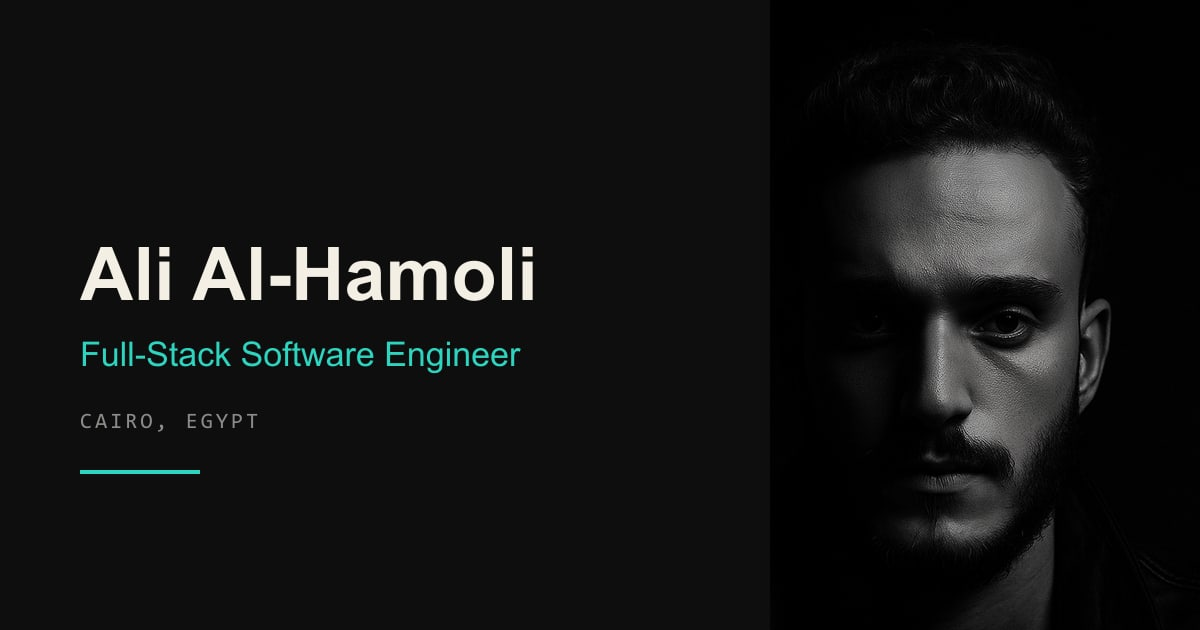
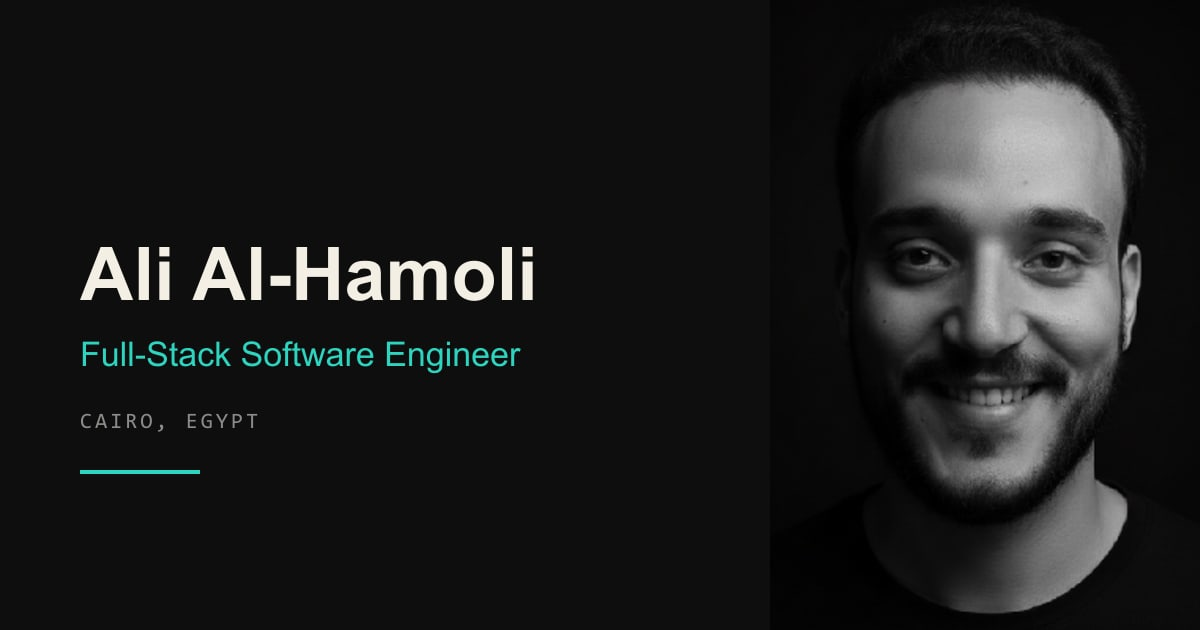
Swap in the new photographs and add the spotlight portrait to About
Hero
- Uses the new square headshot. The frame grows from 17.5/19rem to 20/24rem,
  so it renders at 347px rather than ~285px.
- The source is 400x400, which is the ceiling here: at 24rem (384px) it is
  effectively 1:1 on a standard display, but a 2x display would want 768px.
  No srcSet is emitted, since upscaling would add bytes without detail.

About
- Restructured to portrait-left / narrative-right, as the reference does,
  with the education and languages metadata moved to a rail underneath so
  the copy keeps a readable measure.
- New SpotlightPortrait component ports the reference's About treatment: a
  greyscale base with the colour version stacked on top, clipped to
  `circle(0px at var(--px) var(--py))` and blooming to `circle(80%)` on
  hover over 1.5s on the shared spring. Pointer position is written straight
  to CSS custom properties on the container, so tracking costs no re-render.
- Touch pointers get the colour photograph outright rather than a tap target
  that exists only to fire a decorative effect, and reduced-motion callers
  get it unclipped.
- The colour layer is the same photograph, so it carries an empty alt and is
  hidden from assistive technology; one description sits on the base image.

Assets
- Originals now live in assets/photos/, outside public/, so Vite never
  serves them and `npm run images` is reproducible from source.
- The About crop is 4:5 from a 3:4 source, so it trims height only (there is
[…]

Changed region(s): [[0.7092, 0.0302, 0.9558, 0.9952]]

diff --git a/src/components/sections/About.tsx b/src/components/sections/About.tsx
@@ -2,8 +2,14 @@ import { GraduationCap, Languages, MapPin } from 'lucide-react';
 import Section from '../ui/Section';
 import Reveal from '../ui/Reveal';
 import Highlight from '../ui/Highlight';
+import SpotlightPortrait from '../ui/SpotlightPortrait';
 import { profile } from '../../data/profile';
 
+/**
+ * About. Portrait on the left with the narrative beside it, following the
+ * reference portfolio's layout, and the education/languages metadata moved
+ * to a rail underneath so the copy keeps a readable measure.
+ */
 export default function About() {
   const { summary, summaryHighlights, education, languages, location } = profile;
 
@@ -14,60 +20,73 @@ export default function About() {
       eyebrow="About"
       title="A product-ownership mindset across the complete software lifecycle."
     >
-      <div className="grid gap-12 lg:grid-cols-[1fr_20rem] lg:gap-16">
+      <div className="grid gap-12 lg:grid-cols-[18rem_1fr] lg:gap-14">
+        {/* Portrait — greyscale, with colour revealed under the pointer */}
+        <Reveal>
+          <SpotlightPortrait
+            bw="/img/about-bw.webp"
+            color="/img/about-color.webp"
+            width={640}
+            height={800}
+            sizes="(min-width: 1024px) 18rem, (min-width: 640px) 22rem, 100vw"
+            alt="Ali Al-Hamoli standing on a wooden jetty by a river, framed by banana palms."
+            className="mx-auto w-full max-w-[22rem] lg:max-w-none"
+          />
+        </Reveal>
+
         {/* Narrative */}
         <div className="space-y-6">
           {summary.map((paragraph, i) => (
-            <Reveal key={i} step={i}>
+            <Reveal key={i} step={i + 1}>
               <p className="max-w-prose text-base leading-[1.75] text-muted sm:text-[1.0625rem]">
                 <Highlight text={paragraph} phrases={summaryHighlights} />
               </p>
             </Reveal>
           ))}
         </div>
-
-        {/* Metadata rail */}
-        <Reveal step={1}>
-          <dl className="space-y-7 border-t border-line/10 pt-8 lg:border-l lg:border-t-0 lg:pl-8 lg:pt-0">
-            <div>
-              <dt className="mb-2 flex items-center gap-2 font-mono text-eyebrow uppercase text-faint">
-                <MapPin size={12} aria-hidden="true" />
-                Based in
-              </dt>
-              <dd className="text-sm text-ink">{location}</dd>
-            </div>
-
-            <div>
-              <dt className="mb-2 flex items-center gap-2 font-mono text-eyebrow uppercase text-faint">
-                <GraduationCap size={12} aria-hidden="true" />
-                Education
-              </dt>
-              <dd className="text-sm leading-relaxed text-ink">
-                {education.degree}
-                <span className="mt-1.5 block text-sm text-muted">{education.institution}</span>
-                <span className="mt-1.5 block font-mono text-eyebrow uppercase text-faint">
-                  {education.start} — {education.end} · {education.note}
-                </span>
-              </dd>
-            </div>
-
-            <div>
-              <dt className="mb-2 flex items-center gap-2 font-mono text-eyebrow uppercase text-faint">
-                <Languages size={12} aria-hidden="true" />
-                Languages
-              </dt>
-              <dd className="space-y-1.5">
-                {languages.map((lang) => (
-                  <span key={lang.language} className="block text-sm text-ink">
-                    {lang.language}
-                    <span className="text-muted"> — {lang.level}</span>
-                  </span>
-                ))}
-              </dd>
-            </div>
-          </dl>
-        </Reveal>
       </div>
+
+      {/* Metadata rail */}
+      <Reveal step={2}>
+        <dl className="mt-14 grid gap-x-10 gap-y-8 border-t border-line/10 pt-10 sm:grid-cols-3">
+          <div>
+            <dt className="mb-2 flex items-center gap-2 font-mono text-eyebrow uppercase text-faint">
+              <MapPin size={12} aria-hidden="true" />
+              Based in
+            </dt>
+            <dd className="text-sm text-ink">{location}</dd>
+          </div>
+
+          <div>
+            <dt className="mb-2 flex items-center gap-2 font-mono text-eyebrow uppercase text-faint">
+              <GraduationCap size={12} aria-hidden="true" />
+              Education
+            </dt>
+            <dd className="text-sm leading-relaxed text-ink">
+              {education.degree}
+              <span className="mt-1.5 block text-sm text-muted">{education.institution}</span>
+              <span className="mt-1.5 block font-mono text-eyebrow uppercase text-faint">
+                {education.start} — {education.end} · {education.note}
+              </span>
+            </dd>
+          </div>
+
+          <div>
+            <dt className="mb-2 flex items-center gap-2 font-mono text-eyebrow uppercase text-faint">
+              <Languages size={12} aria-hidden="true" />
+              Languages
+            </dt>
+            <dd className="space-y-1.5">
+              {languages.map((lang) => (
+                <span key={lang.language} className="block text-sm text-ink">
+                  {lang.language}
+                  <span className="text-muted"> — {lang.level}</span>
+                </span>
+              ))}
+            </dd>
+          </div>
+        </dl>
+      </Reveal>
     </Section>
   );
 }

diff --git a/src/components/sections/Hero.tsx b/src/components/sections/Hero.tsx
@@ -154,28 +154,27 @@ export default function Hero() {
 
         {/* -------------------------------------------------- portrait */}
         {/*
-          Held to a fixed width and centred in its column. The frame stays dark
-          in both themes because the photograph is a low-key shot that only
-          reads against black, and the crop is composed on the measured face
-          position (see scripts/optimize-images.mjs) rather than on the frame.
+          The frame stays dark in both themes: the photograph is a low-key
+          black-and-white shot that only reads against black.
+
+          Source is a square 400x400 export, which caps how large this can go
+          before it softens — 24rem (384px) is effectively 1:1 on a standard
+          display. No srcSet, because upscaling would add bytes without adding
+          detail.
         */}
-        <div
-          style={delay(4)}
-          className="rise-in mx-auto w-full max-w-[17.5rem] sm:max-w-[19rem]"
-        >
+        <div style={delay(4)} className="rise-in mx-auto w-full max-w-[20rem] sm:max-w-[24rem]">
           <figure className="rounded-2xl border border-line/15 bg-[#0e0e0e] p-3">
             <img
-              src="/img/portrait.webp"
-              srcSet="/img/portrait.webp 560w, /img/portrait@2x.webp 1120w"
-              sizes="(min-width: 640px) 19rem, 17.5rem"
-              width={560}
-              height={700}
+              src="/img/hero.webp"
+              sizes="(min-width: 640px) 24rem, 20rem"
+              width={400}
+              height={400}
               // React 18 does not map the camelCase prop, so pass the real
               // HTML attribute name through instead.
               {...({ fetchpriority: 'high' } as Record<string, string>)}
               decoding="async"
-              alt="Ali Al-Hamoli, photographed in low-key black and white against a dark background."
-              className="w-full rounded-xl"
+              alt="Ali Al-Hamoli, smiling, in a black-and-white portrait against a dark background."
+              className="aspect-square w-full rounded-xl object-cover"
             />
             <figcaption className="flex items-center justify-between gap-2 px-1 pb-0.5 pt-3 font-mono text-eyebrow uppercase text-[#8c8c88]">
               <span>{profile.location}</span>

diff --git a/src/components/ui/SpotlightPortrait.tsx b/src/components/ui/SpotlightPortrait.tsx
@@ -1,0 +1,70 @@
+import { useCallback, useRef } from 'react';
+import type { PointerEvent as ReactPointerEvent } from 'react';
+
+/**
+ * Greyscale portrait whose colour version is revealed through a circular
+ * clip-path that follows the pointer — the About portrait treatment from the
+ * reference portfolio.
+ *
+ * The pointer position is written straight to CSS custom properties on the
+ * container rather than held in React state; the clip-path and its 1.5s
+ * spring live in index.css (section 8), so moving the pointer costs no
+ * re-render.
+ *
+ * The colour layer is decorative — it is the same photograph — so it carries
+ * an empty alt and is hidden from assistive technology, leaving one
+ * description on the greyscale base.
+ */
+export default function SpotlightPortrait({
+  bw,
+  color,
+  alt,
+  width,
+  height,
+  sizes,
+  className = '',
+}: {
+  bw: string;
+  color: string;
+  alt: string;
+  width: number;
+  height: number;
+  sizes?: string;
+  className?: string;
+}) {
+  const ref = useRef<HTMLDivElement>(null);
+
+  const track = useCallback((event: ReactPointerEvent<HTMLDivElement>) => {
+    const el = ref.current;
+    if (!el) return;
+    const rect = el.getBoundingClientRect();
+    el.style.setProperty('--px', `${event.clientX - rect.left}px`);
+    el.style.setProperty('--py', `${event.clientY - rect.top}px`);
+  }, []);
+
+  return (
+    <div ref={ref} onPointerMove={track} className={`por ${className}`.trim()}>
+      <img
+        src={bw}
+        width={width}
+        height={height}
+        sizes={sizes}
+        loading="lazy"
+        decoding="async"
+        alt={alt}
+        className="p-bw"
+      />
+      <img
+        src={color}
+        width={width}
+        height={height}
+        sizes={sizes}
+        loading="lazy"
+        decoding="async"
+        alt=""
+        aria-hidden="true"
+        className="p-col"
+      />
+    </div>
+  );
+}

diff --git a/src/index.css b/src/index.css
@@ -633,3 +633,58 @@
     transform: scaleX(1);
   }
 }
+
+/* ==========================================================================
+   8. Spotlight portrait (About)
+   Two stacked images: a greyscale base with the colour version clipped to a
+   circle that tracks the pointer and blooms open on hover. Ported from the
+   reference portfolio's About portrait, including its 1.5s spring.
+   ========================================================================== */
+@layer components {
+  .por {
+    position: relative;
+    aspect-ratio: 4 / 5;
+    overflow: hidden;
+    border-radius: 0.75rem;
+    border: 1px solid rgb(var(--c-line) / 0.15);
+    background-color: #0e0e0e;
+  }
+
+  .por img {
+    position: absolute;
+    inset: 0;
+    display: block;
+    width: 100%;
+    height: 100%;
+    object-fit: cover;
+  }
+
+  /* --px / --py are written from the pointer; they default to the centre. */
+  .por .p-col {
+    clip-path: circle(0px at var(--px, 50%) var(--py, 50%));
+    transition: clip-path 1.5s var(--spring);
+  }
+
+  @media (hover: hover) {
+    .por:hover .p-col {
+      clip-path: circle(80% at var(--px, 50%) var(--py, 50%));
+    }
+  }
+
+  /*
+    Touch pointers cannot hover, so they simply get the colour photograph
+    rather than a tap target that exists only to trigger a decorative effect.
+  */
+  @media (hover: none) {
+    .por .p-col {
+      clip-path: none;
+    }
+  }
+
+  @media (prefers-reduced-motion: reduce) {
+    .por .p-col {
+      clip-path: none;
+      transition: none;
+    }
+  }
+}
